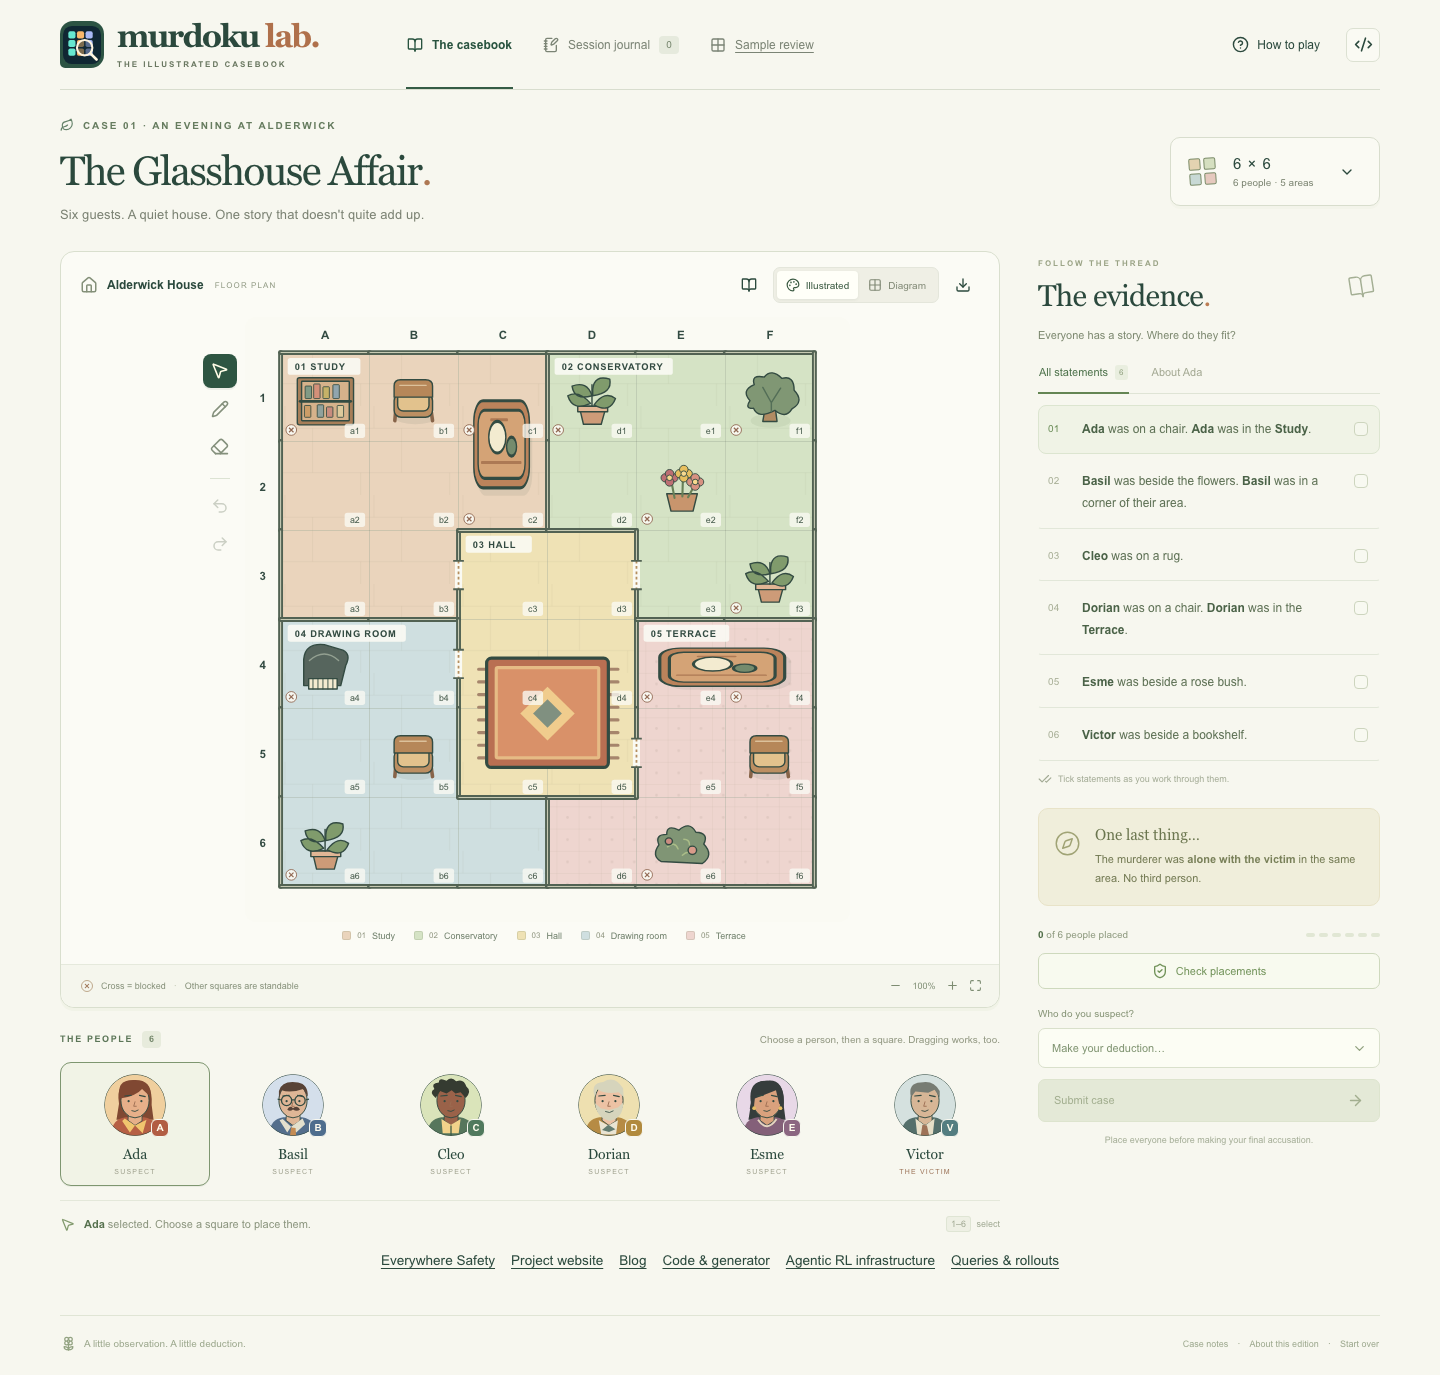
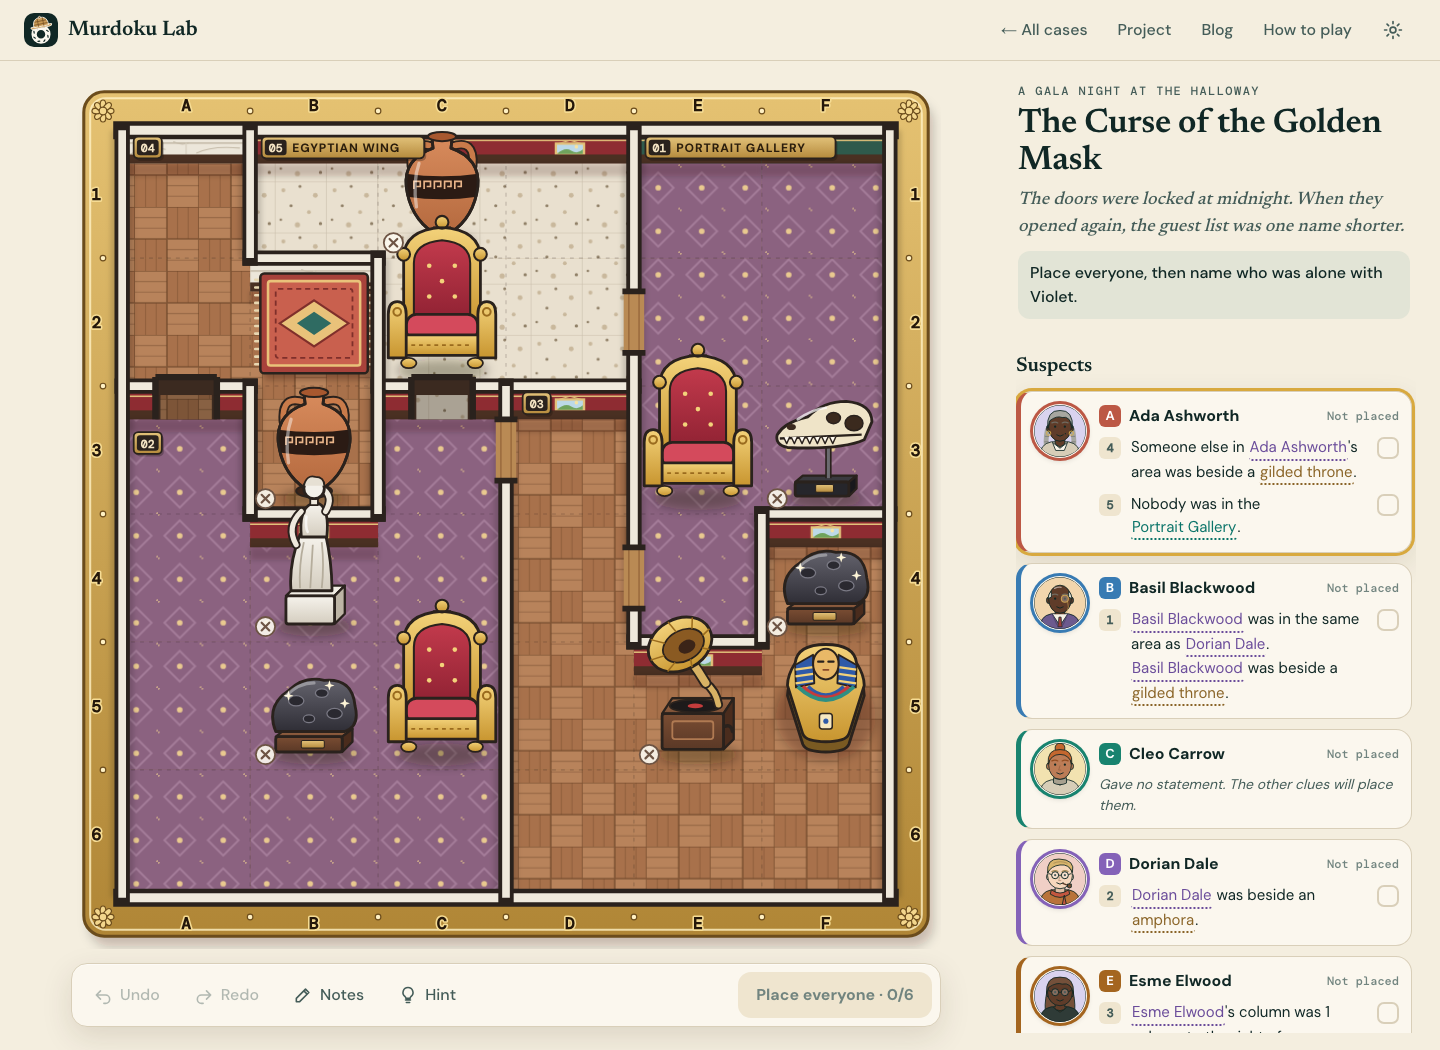
Center blog reading layout and refresh Murdoku player showcase

diff --git a/posts/treasure-hunt/index.html b/posts/treasure-hunt/index.html
@@ -13,18 +13,29 @@
 <meta name="twitter:description" content="Manuel Garand confirmed that we were the first to submit the correct answer to the official Murdoku Treasure Hunt. Our solve took about 20 minutes.">
 <meta name="twitter:image" content="https://everywheresafety.github.io/blog/treasure-hunt/assets/play-preview.png">
 <script type="application/ld+json">{"@context": "https://schema.org", "@type": "BlogPosting", "headline": "How we solved the Treasure Hunt in 20 minutes", "description": "Manuel Garand confirmed that we were the first to submit the correct answer to the official Murdoku Treasure Hunt. Our solve took about 20 minutes.", "url": "https://everywheresafety.github.io/blog/treasure-hunt/", "mainEntityOfPage": {"@type": "WebPage", "@id": "https://everywheresafety.github.io/blog/treasure-hunt/"}, "image": ["https://everywheresafety.github.io/blog/treasure-hunt/assets/play-preview.png"], "author": {"@type": "Organization", "name": "Everywhere Safety", "url": "https://everywheresafety.github.io/"}, "publisher": {"@type": "Organization", "name": "Everywhere Safety", "url": "https://everywheresafety.github.io/"}, "inLanguage": "en"}</script>
-<link rel="icon" href="https://avatars.githubusercontent.com/u/334873385?v=4"><link rel="stylesheet" href="https://everywheresafety.github.io/assets/site.css"><style>.project-page{max-width:1100px;padding:55px 0 80px}.project-page h1{font-size:clamp(3rem,7vw,5.5rem);max-width:900px}.project-page h2{font-size:2.2rem;margin:48px 0 15px}.project-page h3{font-size:1.5rem}.project-page p{max-width:850px;font-size:1.08rem;color:var(--soft)}.project-page .article-subtitle{font-size:clamp(1.3rem,2.5vw,1.9rem);line-height:1.35;margin:12px 0 32px}.project-page figure{margin:30px 0}.project-page img{width:100%;border:1px solid var(--line);border-radius:18px}.project-page figcaption{font-size:.85rem;color:var(--muted);margin-top:10px}.project-page .cards{display:grid;grid-template-columns:1fr 1fr;gap:20px}.project-page .card{padding:25px;border:1px solid var(--line);border-radius:16px;background:var(--surface)}.project-page .card p{font-size:1rem}.project-page a{text-underline-offset:4px}.project-page pre{white-space:pre-wrap;background:var(--surface);padding:20px;border-radius:12px;overflow-wrap:anywhere}.project-page .pill{display:inline-block;padding:5px 12px;border-radius:30px;background:var(--accent-light);font-size:.8rem;margin:15px 5px 0 0}@media(max-width:650px){.project-page .cards{grid-template-columns:1fr}.site-header{flex-wrap:wrap;padding:12px 0;gap:10px}nav{flex-wrap:wrap}}.project-links{display:flex;flex-wrap:wrap;gap:10px;margin:36px 0 0}.project-links a{display:inline-flex;align-items:center;padding:11px 16px;border:1px solid var(--line);border-radius:10px;background:var(--surface);color:var(--text);font-size:.95rem;text-decoration:none}.project-links a:hover{border-color:var(--accent);background:var(--accent-light)}.project-links a:focus-visible{outline:2px solid var(--accent);outline-offset:3px}</style></head><body><header class="site-header"><a class="brand" href="https://everywheresafety.github.io/">Everywhere Safety<span>.</span></a><nav aria-label="Primary"><a href="https://everywheresafety.github.io/murdoku/">Murdoku Lab</a><a href="https://everywheresafety.github.io/blog/">Blog</a><a href="https://github.com/EverywhereSafety">GitHub ↗</a></nav></header><main class="project-page"><h1 id="how-we-solved-the-treasure-hunt-in-20-minutes">How we solved the Treasure Hunt in 20 minutes</h1>
+<link rel="icon" href="https://avatars.githubusercontent.com/u/334873385?v=4"><link rel="stylesheet" href="https://everywheresafety.github.io/assets/site.css"><style>.project-page{max-width:850px;padding:55px 0 80px;overflow-wrap:break-word}.project-page h1{font-size:clamp(2.6rem,5vw,4.25rem);max-width:none;line-height:1.05;letter-spacing:-.04em;text-wrap:balance}.project-page h2{font-size:2.2rem;margin:48px 0 15px}.project-page h3{font-size:1.5rem}.project-page p{font-size:1.08rem;line-height:1.75;color:var(--soft)}.project-page .article-subtitle{font-size:clamp(1.2rem,2.2vw,1.6rem);line-height:1.35;margin:12px 0 32px}.project-page table{display:block;max-width:100%;overflow-x:auto;border-collapse:collapse}.project-page th,.project-page td{padding:10px 12px;text-align:left;border-bottom:1px solid var(--line)}.project-page figure{margin:30px 0}.project-page img{display:block;width:100%;border:1px solid var(--line);border-radius:18px}.project-page figcaption{font-size:.85rem;color:var(--muted);margin-top:10px}.project-page .cards{display:grid;grid-template-columns:1fr 1fr;gap:20px}.project-page .card{padding:25px;border:1px solid var(--line);border-radius:16px;background:var(--surface)}.project-page .card p{font-size:1rem}.project-page a{text-underline-offset:4px}.project-page pre{white-space:pre-wrap;background:var(--surface);padding:20px;border-radius:12px;overflow-wrap:anywhere}.project-page .pill{display:inline-block;padding:5px 12px;border-radius:30px;background:var(--accent-light);font-size:.8rem;margin:15px 5px 0 0}@media(max-width:650px){.project-page .cards{grid-template-columns:1fr}.site-header{flex-wrap:wrap;padding:12px 0;gap:10px}nav{flex-wrap:wrap}}.project-links{display:flex;flex-wrap:wrap;gap:10px;margin:36px 0 0}.project-links a{display:inline-flex;align-items:center;padding:11px 16px;border:1px solid var(--line);border-radius:10px;background:var(--surface);color:var(--text);font-size:.95rem;text-decoration:none}.project-links a:hover{border-color:var(--accent);background:var(--accent-light)}.project-links a:focus-visible{outline:2px solid var(--accent);outline-offset:3px}</style></head><body><header class="site-header"><a class="brand" href="https://everywheresafety.github.io/">Everywhere Safety<span>.</span></a><nav aria-label="Primary"><a href="https://everywheresafety.github.io/murdoku/">Murdoku Lab</a><a href="https://everywheresafety.github.io/blog/">Blog</a><a href="https://github.com/EverywhereSafety">GitHub ↗</a></nav></header><main class="project-page"><h1 id="how-we-solved-the-treasure-hunt-in-20-minutes">How we solved the Treasure Hunt in 20 minutes</h1>
 <p class="article-subtitle">and built a workshop for endless puzzles</p>
 
 <p>Manuel Garand confirmed that we were the first to submit the correct answer to the official Murdoku Treasure Hunt. Our solve took about 20 minutes.</p>
 <p>We are fans of Murdoku. A board full of characters, objects and little clues can keep us busy for hours. We wanted more cases to play. Could we build a workshop that keeps making them, with new settings and clues, and the same care for how a puzzle comes together?</p>
 <p>That is what we are building with <strong>Murdoku Lab</strong>. It generates detective puzzles, verifies their solutions and turns them into playable cases. You can also export each case as a text or visual query for an agent.</p>
 <p><a href="https://everywheresafety.github.io/murdoku/play/">Play a case</a> · <a href="https://github.com/EverywhereSafety/murdoku-lab">GitHub</a> · <a href="https://huggingface.co/datasets/EverywhereSafety/murdoku-lab">Queries and rollouts</a></p>
-<p><a href="https://everywheresafety.github.io/murdoku/play/"><img alt="The playable Murdoku Lab casebook, with a board, characters and clues" src="assets/play-preview.png" /></a></p>
+<p><a href="https://everywheresafety.github.io/murdoku/play/"><img alt="The current Murdoku player: an illustrated museum board, suspect portraits and linked clues" src="assets/play-preview.png" /></a></p>
 <h2 id="how-we-solved-the-contest">How we solved the contest</h2>
 <p>The Treasure Hunt has a 24×24 island, 23 people and a hidden treasure. Ships, cabins, clothing and objects all matter to the clues.</p>
 <p>Our <a href="https://huggingface.co/EverywhereSafety/murdoku-detective-4b">Murdoku Detective 4B</a>, trained on generated Murdoku puzzles, read the PDF, transcribed the map and clues, and wrote an OR-Tools CP-SAT program to solve the puzzle.</p>
 <p>The puzzle also gave us a useful example to study. Our deduction trace makes progress well before the first exact placement. Later, ten characters become located within fourteen deduction events. Those are things we want to look for in the puzzles we generate too. The detailed contest analysis is folded away below for readers avoiding spoilers.</p>
+<h2 id="the-workshop-today">The workshop today</h2>
+<p>The player now has eight illustrated settings: a manor, ocean liner, museum,
+theatre, chalet, glasshouses, night train and college. Rooms, furniture, wall
+finishes and board frames change with the setting.</p>
+<p><a href="https://everywheresafety.github.io/murdoku/play/#collection"><img alt="Eight illustrated worlds in Murdoku Play" src="assets/play-exp-settings.jpg" /></a></p>
+<p>The generated collection has 6×6, 7×7 and 8×8 cases. A guided training case teaches
+the rules, graded hints help when you get stuck, and a daily case gives everyone
+a shared mystery. The classic 16×16 estate and 24×24 museum are there for a longer
+investigation.</p>
+<p><a href="https://everywheresafety.github.io/murdoku/play/?case=tutorial">Start with the guided case</a>
+or <a href="https://everywheresafety.github.io/murdoku/play/#collection">browse the collection</a>.</p>
 <h2 id="build-a-case-with-an-answer-we-can-check">Build a case with an answer we can check</h2>
 <p>The generator starts with a board, objects, character placements and constraints. Solvers verify that the clues determine a unique solution. We keep that solution as the answer key.</p>
 <p>The semantic setter adds the setting, names, room labels and clue wording. The answer is already established when this happens. Each themed case is checked against its formal puzzle before export.</p>

diff --git a/template.html b/template.html
@@ -13,4 +13,4 @@
 <meta name="twitter:description" content="{{DESCRIPTION}}">
 <meta name="twitter:image" content="{{IMAGE}}">
 <script type="application/ld+json">{{STRUCTURED_DATA}}</script>
-<link rel="icon" href="https://avatars.githubusercontent.com/u/334873385?v=4"><link rel="stylesheet" href="https://everywheresafety.github.io/assets/site.css"><style>.project-page{max-width:1100px;padding:55px 0 80px}.project-page h1{font-size:clamp(3rem,7vw,5.5rem);max-width:900px}.project-page h2{font-size:2.2rem;margin:48px 0 15px}.project-page h3{font-size:1.5rem}.project-page p{max-width:850px;font-size:1.08rem;color:var(--soft)}.project-page .article-subtitle{font-size:clamp(1.3rem,2.5vw,1.9rem);line-height:1.35;margin:12px 0 32px}.project-page figure{margin:30px 0}.project-page img{width:100%;border:1px solid var(--line);border-radius:18px}.project-page figcaption{font-size:.85rem;color:var(--muted);margin-top:10px}.project-page .cards{display:grid;grid-template-columns:1fr 1fr;gap:20px}.project-page .card{padding:25px;border:1px solid var(--line);border-radius:16px;background:var(--surface)}.project-page .card p{font-size:1rem}.project-page a{text-underline-offset:4px}.project-page pre{white-space:pre-wrap;background:var(--surface);padding:20px;border-radius:12px;overflow-wrap:anywhere}.project-page .pill{display:inline-block;padding:5px 12px;border-radius:30px;background:var(--accent-light);font-size:.8rem;margin:15px 5px 0 0}@media(max-width:650px){.project-page .cards{grid-template-columns:1fr}.site-header{flex-wrap:wrap;padding:12px 0;gap:10px}nav{flex-wrap:wrap}}.project-links{display:flex;flex-wrap:wrap;gap:10px;margin:36px 0 0}.project-links a{display:inline-flex;align-items:center;padding:11px 16px;border:1px solid var(--line);border-radius:10px;background:var(--surface);color:var(--text);font-size:.95rem;text-decoration:none}.project-links a:hover{border-color:var(--accent);background:var(--accent-light)}.project-links a:focus-visible{outline:2px solid var(--accent);outline-offset:3px}</style></head><body><header class="site-header"><a class="brand" href="https://everywheresafety.github.io/">Everywhere Safety<span>.</span></a><nav aria-label="Primary"><a href="https://everywheresafety.github.io/murdoku/">Murdoku Lab</a><a href="https://everywheresafety.github.io/blog/">Blog</a><a href="https://github.com/EverywhereSafety">GitHub ↗</a></nav></header><main class="project-page">{{CONTENT}}<nav class="project-links" aria-label="Explore Murdoku and Agent Horizon"><a href="https://everywheresafety.github.io/murdoku/play/">Play a case</a><a href="https://everywheresafety.github.io/murdoku/">Explore Murdoku Lab</a><a href="https://github.com/EverywhereSafety/murdoku-lab">Code</a><a href="https://huggingface.co/datasets/EverywhereSafety/murdoku-lab">Queries and rollouts</a><a href="https://huggingface.co/EverywhereSafety/murdoku-detective-4b">Murdoku Detective 4B</a><a href="https://github.com/EverywhereSafety/agent-horizon">Agent Horizon</a></nav></main><footer><a class="brand" href="https://everywheresafety.github.io/">Everywhere Safety<span>.</span></a></footer></body></html>
+<link rel="icon" href="https://avatars.githubusercontent.com/u/334873385?v=4"><link rel="stylesheet" href="https://everywheresafety.github.io/assets/site.css"><style>.project-page{max-width:850px;padding:55px 0 80px;overflow-wrap:break-word}.project-page h1{font-size:clamp(2.6rem,5vw,4.25rem);max-width:none;line-height:1.05;letter-spacing:-.04em;text-wrap:balance}.project-page h2{font-size:2.2rem;margin:48px 0 15px}.project-page h3{font-size:1.5rem}.project-page p{font-size:1.08rem;line-height:1.75;color:var(--soft)}.project-page .article-subtitle{font-size:clamp(1.2rem,2.2vw,1.6rem);line-height:1.35;margin:12px 0 32px}.project-page table{display:block;max-width:100%;overflow-x:auto;border-collapse:collapse}.project-page th,.project-page td{padding:10px 12px;text-align:left;border-bottom:1px solid var(--line)}.project-page figure{margin:30px 0}.project-page img{display:block;width:100%;border:1px solid var(--line);border-radius:18px}.project-page figcaption{font-size:.85rem;color:var(--muted);margin-top:10px}.project-page .cards{display:grid;grid-template-columns:1fr 1fr;gap:20px}.project-page .card{padding:25px;border:1px solid var(--line);border-radius:16px;background:var(--surface)}.project-page .card p{font-size:1rem}.project-page a{text-underline-offset:4px}.project-page pre{white-space:pre-wrap;background:var(--surface);padding:20px;border-radius:12px;overflow-wrap:anywhere}.project-page .pill{display:inline-block;padding:5px 12px;border-radius:30px;background:var(--accent-light);font-size:.8rem;margin:15px 5px 0 0}@media(max-width:650px){.project-page .cards{grid-template-columns:1fr}.site-header{flex-wrap:wrap;padding:12px 0;gap:10px}nav{flex-wrap:wrap}}.project-links{display:flex;flex-wrap:wrap;gap:10px;margin:36px 0 0}.project-links a{display:inline-flex;align-items:center;padding:11px 16px;border:1px solid var(--line);border-radius:10px;background:var(--surface);color:var(--text);font-size:.95rem;text-decoration:none}.project-links a:hover{border-color:var(--accent);background:var(--accent-light)}.project-links a:focus-visible{outline:2px solid var(--accent);outline-offset:3px}</style></head><body><header class="site-header"><a class="brand" href="https://everywheresafety.github.io/">Everywhere Safety<span>.</span></a><nav aria-label="Primary"><a href="https://everywheresafety.github.io/murdoku/">Murdoku Lab</a><a href="https://everywheresafety.github.io/blog/">Blog</a><a href="https://github.com/EverywhereSafety">GitHub ↗</a></nav></header><main class="project-page">{{CONTENT}}<nav class="project-links" aria-label="Explore Murdoku and Agent Horizon"><a href="https://everywheresafety.github.io/murdoku/play/">Play a case</a><a href="https://everywheresafety.github.io/murdoku/">Explore Murdoku Lab</a><a href="https://github.com/EverywhereSafety/murdoku-lab">Code</a><a href="https://huggingface.co/datasets/EverywhereSafety/murdoku-lab">Queries and rollouts</a><a href="https://huggingface.co/EverywhereSafety/murdoku-detective-4b">Murdoku Detective 4B</a><a href="https://github.com/EverywhereSafety/agent-horizon">Agent Horizon</a></nav></main><footer><a class="brand" href="https://everywheresafety.github.io/">Everywhere Safety<span>.</span></a></footer></body></html>

diff --git a/posts/treasure-hunt/README.md b/posts/treasure-hunt/README.md
@@ -10,7 +10,7 @@ That is what we are building with **Murdoku Lab**. It generates detective puzzle
 
 [Play a case](https://everywheresafety.github.io/murdoku/play/) · [GitHub](https://github.com/EverywhereSafety/murdoku-lab) · [Queries and rollouts](https://huggingface.co/datasets/EverywhereSafety/murdoku-lab)
 
-[![The playable Murdoku Lab casebook, with a board, characters and clues](assets/play-preview.png)](https://everywheresafety.github.io/murdoku/play/)
+[![The current Murdoku player: an illustrated museum board, suspect portraits and linked clues](assets/play-preview.png)](https://everywheresafety.github.io/murdoku/play/)
 
 ## How we solved the contest
 
@@ -19,6 +19,22 @@ The Treasure Hunt has a 24×24 island, 23 people and a hidden treasure. Ships, c
 Our [Murdoku Detective 4B](https://huggingface.co/EverywhereSafety/murdoku-detective-4b), trained on generated Murdoku puzzles, read the PDF, transcribed the map and clues, and wrote an OR-Tools CP-SAT program to solve the puzzle.
 
 The puzzle also gave us a useful example to study. Our deduction trace makes progress well before the first exact placement. Later, ten characters become located within fourteen deduction events. Those are things we want to look for in the puzzles we generate too. The detailed contest analysis is folded away below for readers avoiding spoilers.
+
+## The workshop today
+
+The player now has eight illustrated settings: a manor, ocean liner, museum,
+theatre, chalet, glasshouses, night train and college. Rooms, furniture, wall
+finishes and board frames change with the setting.
+
+[![Eight illustrated worlds in Murdoku Play](assets/play-exp-settings.jpg)](https://everywheresafety.github.io/murdoku/play/#collection)
+
+The generated collection has 6×6, 7×7 and 8×8 cases. A guided training case teaches
+the rules, graded hints help when you get stuck, and a daily case gives everyone
+a shared mystery. The classic 16×16 estate and 24×24 museum are there for a longer
+investigation.
+
+[Start with the guided case](https://everywheresafety.github.io/murdoku/play/?case=tutorial)
+or [browse the collection](https://everywheresafety.github.io/murdoku/play/#collection).
 
 ## Build a case with an answer we can check
 
